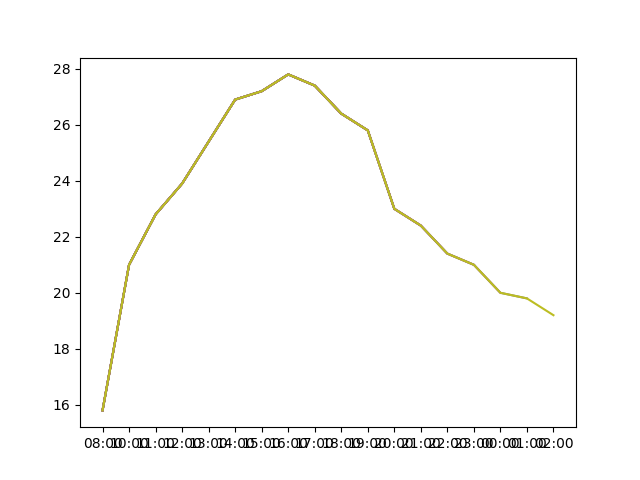
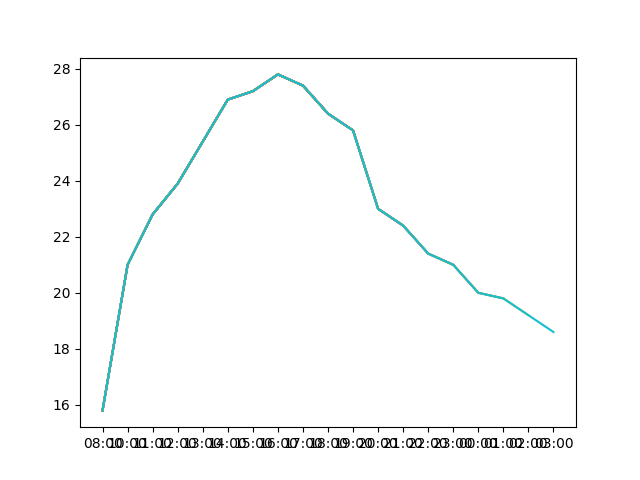
'updated'

diff --git a/index.html b/index.html
@@ -1,2 +1,2 @@
 <img src='graph.png'> 
-<table border="1"><tr><th>data</th><td><table border="1"><thead><tr><th>date</th><th>hour</th><th>weather</th><th>visibility</th><th>temp</th><th>unk</th><th>humidity</th><th>wind</th><th>pressure</th></tr></thead><tbody><tr><td>03-Abril-2021</td><td>08:00</td><td>Algo nublado con banco delgado de niebla</td><td>8 km</td><td>15.8</td><td>No se calcula</td><td>92.0</td><td>Sur  3</td><td>1014.5</td></tr><tr><td>03-Abril-2021</td><td>10:00</td><td>Despejado</td><td>15 km</td><td>21.0</td><td>No se calcula</td><td>71.0</td><td>Noreste  11</td><td>1014.8</td></tr><tr><td>03-Abril-2021</td><td>11:00</td><td>Despejado</td><td>15 km</td><td>22.8</td><td>No se calcula</td><td>66.0</td><td>Este  5</td><td>1014.6</td></tr><tr><td>03-Abril-2021</td><td>12:00</td><td>Algo nublado</td><td>15 km</td><td>23.9</td><td>No se calcula</td><td>61.0</td><td>Noreste  7</td><td>1014.2</td></tr><tr><td>03-Abril-2021</td><td>13:00</td><td>Algo nublado</td><td>15 km</td><td>25.4</td><td>No se calcula</td><td>55.0</td><td>Este  5</td><td>1013.6</td></tr><tr><td>03-Abril-2021</td><td>14:00</td><td>Algo nublado</td><td>15 km</td><td>26.9</td><td>27.3</td><td>49.0</td><td>Noreste  5</td><td>1012.8</td></tr><tr><td>03-Abril-2021</td><td>15:00</td><td>Algo nublado</td><td>15 km</td><td>27.2</td><td>26.4</td><td>42.0</td><td>Noreste  13</td><td>1012.0</td></tr><tr><td>03-Abril-2021</td><td>16:00</td><td>Algo nublado</td><td>15 km</td><td>27.8</td><td>No se calcula</td><td>36.0</td><td>Sudeste  9</td><td>1011.4</td></tr><tr><td>03-Abril-2021</td><td>17:00</td><td>Algo nublado</td><td>15 km</td><td>27.4</td><td>No se calcula</td><td>38.0</td><td>Este  7</td><td>1011.3</td></tr><tr><td>03-Abril-2021</td><td>18:00</td><td>Despejado</td><td>15 km</td><td>26.4</td><td>No se calcula</td><td>39.0</td><td>Sur  9</td><td>1011.3</td></tr><tr><td>03-Abril-2021</td><td>19:00</td><td>Despejado</td><td>15 km</td><td>25.8</td><td>No se calcula</td><td>43.0</td><td>Calma</td><td>1011.4</td></tr><tr><td>03-Abril-2021</td><td>20:00</td><td>Despejado</td><td>15 km</td><td>23.0</td><td>No se calcula</td><td>58.0</td><td>Sur  5</td><td>1011.8</td></tr><tr><td>03-Abril-2021</td><td>21:00</td><td>Algo nublado</td><td>15 km</td><td>22.4</td><td>No se calcula</td><td>62.0</td><td>Sur  7</td><td>1012.2</td></tr><tr><td>03-Abril-2021</td><td>22:00</td><td>Algo nublado</td><td>15 km</td><td>21.4</td><td>No se calcula</td><td>68.0</td><td>Calma</td><td>1012.8</td></tr><tr><td>03-Abril-2021</td><td>23:00</td><td>Despejado</td><td>15 km</td><td>21.0</td><td>No se calcula</td><td>73.0</td><td>Calma</td><td>1012.8</td></tr><tr><td>04-Abril-2021</td><td>00:00</td><td>Despejado</td><td>15 km</td><td>20.0</td><td>No se calcula</td><td>77.0</td><td>Sudeste  5</td><td>1012.6</td></tr><tr><td>04-Abril-2021</td><td>01:00</td><td>Algo nublado</td><td>15 km</td><td>19.8</td><td>No se calcula</td><td>76.0</td><td>Calma</td><td>1012.4</td></tr><tr><td>04-Abril-2021</td><td>02:00</td><td>Despejado</td><td>15 km</td><td>19.2</td><td>No se calcula</td><td>75.0</td><td>Calma</td><td>1012.1</td></tr></tbody></table></td></tr></table>
+<table border="1"><tr><th>data</th><td><table border="1"><thead><tr><th>date</th><th>hour</th><th>weather</th><th>visibility</th><th>temp</th><th>unk</th><th>humidity</th><th>wind</th><th>pressure</th></tr></thead><tbody><tr><td>03-Abril-2021</td><td>08:00</td><td>Algo nublado con banco delgado de niebla</td><td>8 km</td><td>15.8</td><td>No se calcula</td><td>92.0</td><td>Sur  3</td><td>1014.5</td></tr><tr><td>03-Abril-2021</td><td>10:00</td><td>Despejado</td><td>15 km</td><td>21.0</td><td>No se calcula</td><td>71.0</td><td>Noreste  11</td><td>1014.8</td></tr><tr><td>03-Abril-2021</td><td>11:00</td><td>Despejado</td><td>15 km</td><td>22.8</td><td>No se calcula</td><td>66.0</td><td>Este  5</td><td>1014.6</td></tr><tr><td>03-Abril-2021</td><td>12:00</td><td>Algo nublado</td><td>15 km</td><td>23.9</td><td>No se calcula</td><td>61.0</td><td>Noreste  7</td><td>1014.2</td></tr><tr><td>03-Abril-2021</td><td>13:00</td><td>Algo nublado</td><td>15 km</td><td>25.4</td><td>No se calcula</td><td>55.0</td><td>Este  5</td><td>1013.6</td></tr><tr><td>03-Abril-2021</td><td>14:00</td><td>Algo nublado</td><td>15 km</td><td>26.9</td><td>27.3</td><td>49.0</td><td>Noreste  5</td><td>1012.8</td></tr><tr><td>03-Abril-2021</td><td>15:00</td><td>Algo nublado</td><td>15 km</td><td>27.2</td><td>26.4</td><td>42.0</td><td>Noreste  13</td><td>1012.0</td></tr><tr><td>03-Abril-2021</td><td>16:00</td><td>Algo nublado</td><td>15 km</td><td>27.8</td><td>No se calcula</td><td>36.0</td><td>Sudeste  9</td><td>1011.4</td></tr><tr><td>03-Abril-2021</td><td>17:00</td><td>Algo nublado</td><td>15 km</td><td>27.4</td><td>No se calcula</td><td>38.0</td><td>Este  7</td><td>1011.3</td></tr><tr><td>03-Abril-2021</td><td>18:00</td><td>Despejado</td><td>15 km</td><td>26.4</td><td>No se calcula</td><td>39.0</td><td>Sur  9</td><td>1011.3</td></tr><tr><td>03-Abril-2021</td><td>19:00</td><td>Despejado</td><td>15 km</td><td>25.8</td><td>No se calcula</td><td>43.0</td><td>Calma</td><td>1011.4</td></tr><tr><td>03-Abril-2021</td><td>20:00</td><td>Despejado</td><td>15 km</td><td>23.0</td><td>No se calcula</td><td>58.0</td><td>Sur  5</td><td>1011.8</td></tr><tr><td>03-Abril-2021</td><td>21:00</td><td>Algo nublado</td><td>15 km</td><td>22.4</td><td>No se calcula</td><td>62.0</td><td>Sur  7</td><td>1012.2</td></tr><tr><td>03-Abril-2021</td><td>22:00</td><td>Algo nublado</td><td>15 km</td><td>21.4</td><td>No se calcula</td><td>68.0</td><td>Calma</td><td>1012.8</td></tr><tr><td>03-Abril-2021</td><td>23:00</td><td>Despejado</td><td>15 km</td><td>21.0</td><td>No se calcula</td><td>73.0</td><td>Calma</td><td>1012.8</td></tr><tr><td>04-Abril-2021</td><td>00:00</td><td>Despejado</td><td>15 km</td><td>20.0</td><td>No se calcula</td><td>77.0</td><td>Sudeste  5</td><td>1012.6</td></tr><tr><td>04-Abril-2021</td><td>01:00</td><td>Algo nublado</td><td>15 km</td><td>19.8</td><td>No se calcula</td><td>76.0</td><td>Calma</td><td>1012.4</td></tr><tr><td>04-Abril-2021</td><td>02:00</td><td>Despejado</td><td>15 km</td><td>19.2</td><td>No se calcula</td><td>75.0</td><td>Calma</td><td>1012.1</td></tr><tr><td>04-Abril-2021</td><td>03:00</td><td>Algo nublado</td><td>15 km</td><td>18.6</td><td>No se calcula</td><td>82.0</td><td>Noreste  9</td><td>1012.0</td></tr></tbody></table></td></tr></table>
